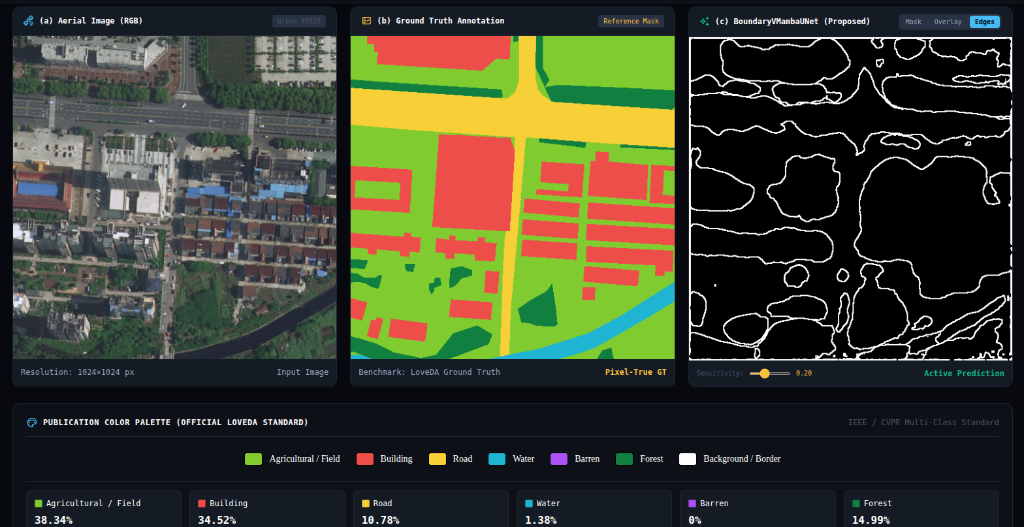
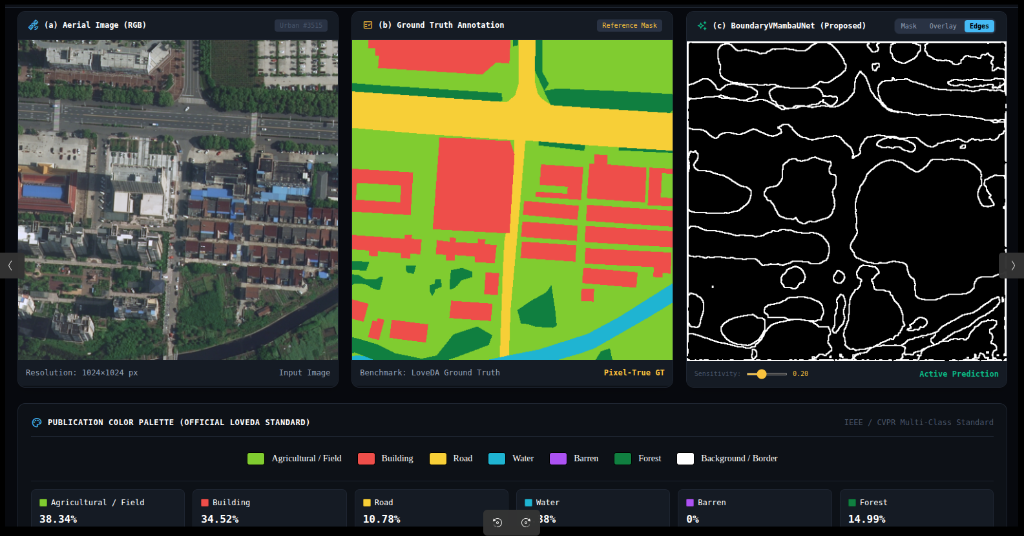
docs: add LoveDA and Sentinel-2 interactive demo screenshots to README

diff --git a/README.md b/README.md
@@ -441,14 +441,20 @@ python tools/eval_boundary_sen2.py \
 ```
 
 ### 6. Live Interactive Web Demo Studio
-Launch the local web inference studio with 3-panel publication comparison: **(a) Aerial Image (RGB)**, **(b) Ground Truth Annotation**, and **(c) BoundaryVMambaUNet (Proposed)**:
+Launch the local web inference studio with 3-panel publication comparison: **(a) Remote Sensing Image (RGB)**, **(b) Ground Truth Annotation**, and **(c) BoundaryVMambaUNet (Proposed)**. The studio supports on-the-fly dynamic switching between **LoveDA Aerial** and **Sentinel-2 LULC Satellite** datasets.
 
-![Live Interactive Web Demo Studio](assets/web_app_demo.png)
+#### 🏙 LoveDA Aerial Benchmark (0.3m High-Resolution)
+![LoveDA Live Interactive Web Demo Studio](assets/web_app_demo_loveda.png)
+
+#### 🛰 Sentinel-2 LULC Benchmark (10m Satellite Imagery)
+![Sentinel-2 LULC Live Interactive Web Demo Studio](assets/web_app_demo_sen2.png)
 
 ```bash
+# Activate environment and run web studio
+source /home/admin/venvs/geospatial/bin/activate
 python web_app.py
 ```
-Open **`http://localhost:8000`** in any web browser.
+Open **`http://localhost:8000`** in any web browser to test sample tiles or upload custom satellite/aerial imagery.
 
 ---
 
